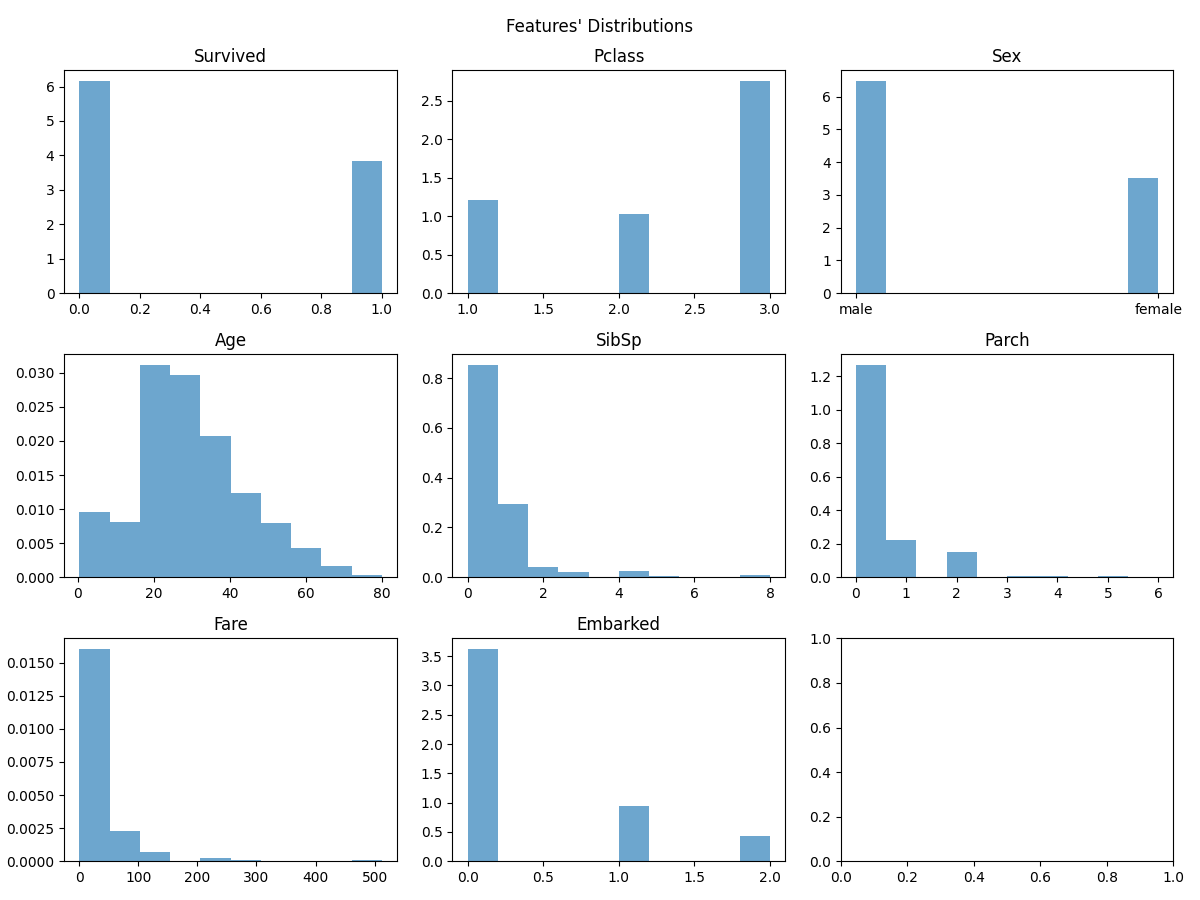
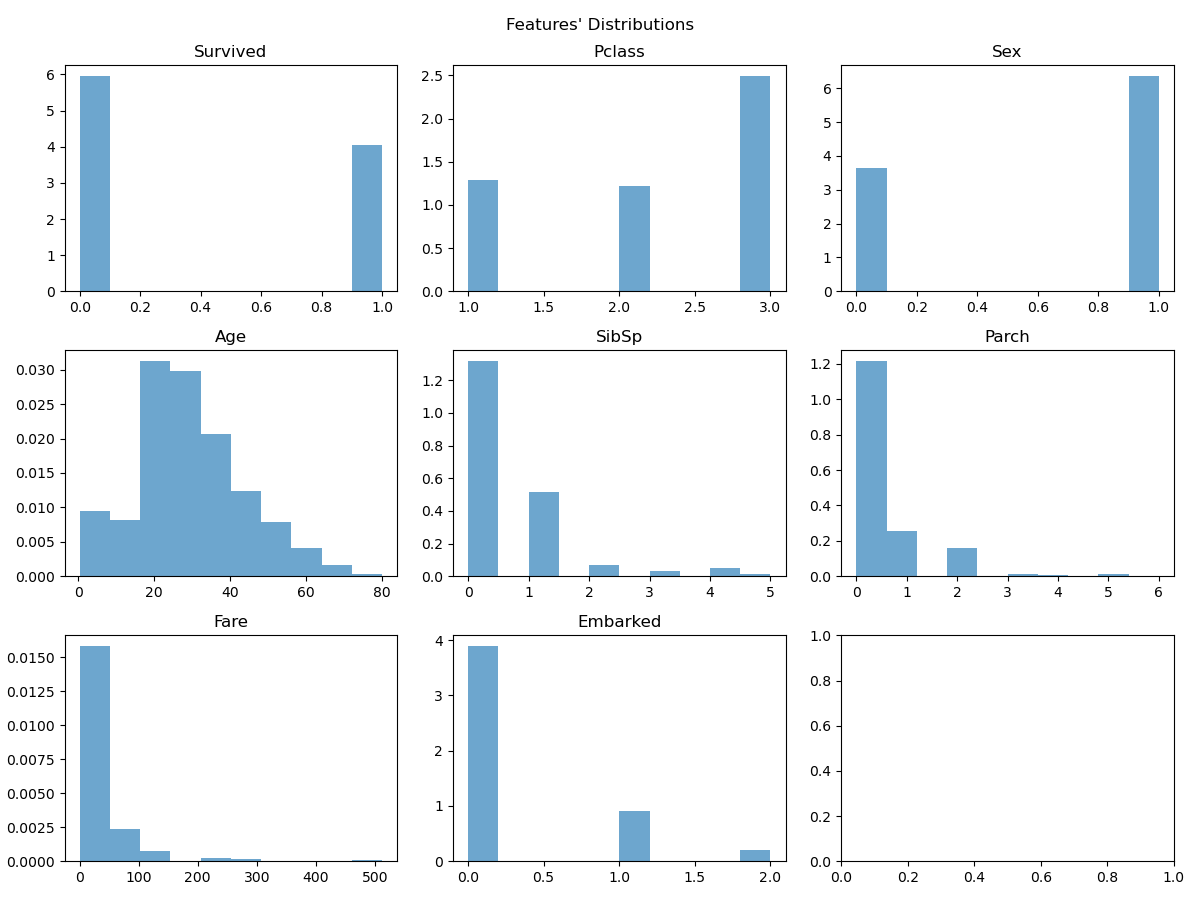
SVM implemented

diff --git a/Titanic.py b/Titanic.py
@@ -5,6 +5,8 @@ import numpy as np
 import matplotlib.pyplot as plt
 from sklearn.model_selection import train_test_split
 import seaborn as sns
+from sklearn.svm import SVC
+from sklearn.metrics import accuracy_score
 
 #Load data
 data = pd.read_csv("Dados/train.csv")
@@ -21,7 +23,14 @@ dead = data[data['Survived']==0]
 data['Embarked'] = data['Embarked'].replace(['S'],int(0))
 data['Embarked'] = data['Embarked'].replace(['C'],int(1))
 data['Embarked'] = data['Embarked'].replace(['Q'],int(2))
+data['Sex'] = data['Sex'].replace(['male'],int(1))
+data['Sex'] = data['Sex'].replace(['female'],int(0))
 print(data)
+
+#Drop NaN rows
+print("There are", len(data), "rows and",data.isnull().values.ravel().sum(),"rows have missing values")
+data = data.dropna()
+data = data.reset_index(drop=True)
 
 #Visualize data
 # Check for correlations
@@ -69,4 +78,15 @@ fig.tight_layout()
 plt.savefig('Grid_dist.png')
 plt.show()
 
-# print(data.Pclass.unique())
+#Defining features and prediction variable
+
+X,Y = data.iloc[:,1:], data.iloc[:,0]
+print(X.head())
+
+x_train, x_test, y_train, y_test = train_test_split(X, Y, train_size=0.7)
+
+#Suport Vector Machine model
+clf = SVC(kernel='linear')
+clf.fit(x_train,y_train)
+y_pred = clf.predict(x_test)
+print(accuracy_score(y_test,y_pred))
